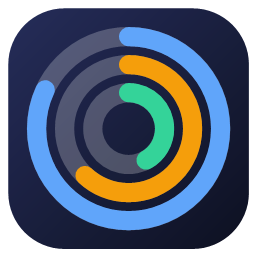
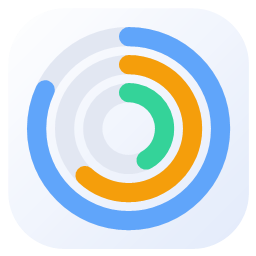
Light minimal redesign

diff --git a/src/widget.html b/src/widget.html
@@ -2,38 +2,38 @@
 <html lang="ko"><head><meta charset="utf-8">
 <style>
 *{box-sizing:border-box;margin:0}
-html,body{background:transparent;overflow:hidden;font-family:'Segoe UI','Malgun Gothic',sans-serif;color:#e8ecf8;user-select:none}
+html,body{background:transparent;overflow:hidden;font-family:'Segoe UI','Malgun Gothic',sans-serif;color:#1f2430;user-select:none}
 body{padding:6px 14px 22px}
 body[data-mode=clock]{padding:22px 14px 6px}
-.dock{background:linear-gradient(160deg,rgba(26,31,52,.97),rgba(14,17,30,.97));border:1px solid rgba(255,255,255,.1);border-radius:22px;padding:14px 16px 16px;box-shadow:0 18px 50px rgba(0,0,0,.55),inset 0 1px 0 rgba(255,255,255,.07);
+.dock{background:#fff;border:1px solid #e6e9f0;border-radius:20px;padding:14px 16px 16px;box-shadow:0 12px 36px rgba(30,40,70,.16);
  transform:translateY(-120%);opacity:0;transition:transform .26s cubic-bezier(.2,.9,.25,1),opacity .2s}
 body[data-mode=top] .dock{border-top-left-radius:0;border-top-right-radius:0;border-top:0}
 body[data-mode=clock] .dock{transform:translateY(120%)}
 body.show .dock{transform:none;opacity:1}
-header{display:flex;align-items:center;gap:8px;margin-bottom:12px}
-h1{font-size:14px;font-weight:700;letter-spacing:.2px;flex:1}
-h1 small{font-weight:500;color:#8b93b0;margin-left:8px;font-size:11px}
-button{background:rgba(255,255,255,.07);border:0;color:#cfd6ee;width:28px;height:28px;border-radius:9px;cursor:pointer;font-size:14px;transition:.15s}
-button:hover{background:rgba(255,255,255,.16)}
+header{display:flex;align-items:center;gap:6px;margin-bottom:12px}
+h1{font-size:14px;font-weight:700;flex:1}
+h1 small{font-weight:500;color:#9aa2b5;margin-left:8px;font-size:11px}
+button{background:transparent;border:0;color:#7b849a;width:28px;height:28px;border-radius:9px;cursor:pointer;font-size:15px;transition:.15s}
+button:hover{background:#f0f3f9;color:#1f2430}
 .grid{display:grid;grid-template-columns:repeat(auto-fill,minmax(222px,1fr));gap:10px}
-.card{--c:#60a5fa;background:rgba(255,255,255,.045);border:1px solid rgba(255,255,255,.07);border-radius:16px;padding:11px 12px 10px;position:relative;overflow:hidden}
-.card::before{content:'';position:absolute;left:0;top:0;bottom:0;width:3px;background:var(--c)}
-.top{display:flex;align-items:center;gap:7px;margin-bottom:8px}
-.name{font-weight:700;font-size:14px}
-.lab{font-size:11px;color:#8b93b0;white-space:nowrap;overflow:hidden;text-overflow:ellipsis;flex:1}
-.st{font-size:10px;padding:2px 7px;border-radius:99px;background:rgba(255,255,255,.08);color:#aab2cf;white-space:nowrap}
-.st.login,.st.error{background:rgba(245,158,11,.18);color:#fbbf24;cursor:pointer}
+.card{--c:#3b82f6;background:#f7f9fc;border-radius:14px;padding:11px 12px 10px}
+.top{display:flex;align-items:center;gap:7px;margin-bottom:9px}
+.top::before{content:'';width:8px;height:8px;border-radius:50%;background:var(--c);flex:none}
+.name{font-weight:700;font-size:13.5px}
+.lab{font-size:11px;color:#9aa2b5;white-space:nowrap;overflow:hidden;text-overflow:ellipsis;flex:1}
+.st{font-size:10px;padding:2px 7px;border-radius:99px;background:#e9edf5;color:#7b849a;white-space:nowrap}
+.st.login,.st.error{background:#fff2d9;color:#b7791f;cursor:pointer}
 .rings{display:flex;gap:6px;justify-content:space-around}
 .m{display:flex;align-items:center;gap:8px;flex:1}
 .ring{position:relative;width:54px;height:54px;flex:none}
 .ring svg{transform:rotate(-90deg);width:54px;height:54px}
-.ring circle{fill:none;stroke-width:6;stroke-linecap:round}
-.ring .bg{stroke:rgba(255,255,255,.09)}
-.ring .fg{stroke:var(--k);transition:stroke-dashoffset .8s cubic-bezier(.2,.8,.2,1),stroke .3s;filter:drop-shadow(0 0 4px var(--k))}
+.ring circle{fill:none;stroke-width:5.5;stroke-linecap:round}
+.ring .bg{stroke:#e3e8f1}
+.ring .fg{stroke:var(--k);transition:stroke-dashoffset .8s cubic-bezier(.2,.8,.2,1),stroke .3s}
 .ring b{position:absolute;inset:0;display:grid;place-items:center;font-size:13px;font-weight:700}
-.t{font-size:11px;color:#aab2cf;line-height:1.35}
-.t i{display:block;font-style:normal;color:#6f7899;font-size:10px;margin-top:1px;max-width:64px;word-break:keep-all}
-.empty{padding:26px;text-align:center;color:#8b93b0;font-size:13px;grid-column:1/-1}
+.t{font-size:11px;color:#6b748a;line-height:1.35}
+.t i{display:block;font-style:normal;color:#a3abbd;font-size:10px;margin-top:1px;max-width:64px;word-break:keep-all}
+.empty{padding:26px;text-align:center;color:#9aa2b5;font-size:13px;grid-column:1/-1}
 .spin{animation:s 1s linear infinite;display:inline-block}@keyframes s{to{transform:rotate(360deg)}}
 </style></head>
 <body data-mode="top"><div class="dock" id="dock">

diff --git a/src/settings.html b/src/settings.html
@@ -2,22 +2,22 @@
 <html lang="ko"><head><meta charset="utf-8"><title>AI 사용량 — 설정</title>
 <style>
 *{box-sizing:border-box;margin:0}
-body{background:radial-gradient(900px 500px at 10% -10%,#1d2548,transparent),#0f1320;color:#e8ecf8;font-family:'Segoe UI','Malgun Gothic',sans-serif;padding:26px 30px 40px;min-height:100vh}
-h1{font-size:22px;margin-bottom:4px}p.sub{color:#8b93b0;font-size:13px;margin-bottom:22px}
-h2{font-size:13px;color:#8b93b0;letter-spacing:.5px;margin:26px 0 10px;text-transform:uppercase}
-.box{background:rgba(255,255,255,.045);border:1px solid rgba(255,255,255,.08);border-radius:16px;padding:14px 16px}
-.acc{--c:#60a5fa;border-left:4px solid var(--c);margin-bottom:10px}
+body{background:#f5f7fb;color:#1f2430;font-family:'Segoe UI','Malgun Gothic',sans-serif;padding:28px 32px 40px;min-height:100vh}
+h1{font-size:21px;margin-bottom:4px}p.sub{color:#8a93a8;font-size:13px;margin-bottom:20px}
+h2{font-size:12px;color:#9aa2b5;letter-spacing:.5px;margin:26px 0 10px;font-weight:600}
+.box{background:#fff;border:1px solid #e6e9f0;border-radius:14px;padding:14px 16px}
+.acc{--c:#3b82f6;margin-bottom:10px}
 .row{display:flex;gap:8px;align-items:center;flex-wrap:wrap;margin:6px 0}
-.badge{font-weight:700;color:var(--c);min-width:92px}
-input,select{background:#1a2038;border:1px solid #2c3556;color:#e8ecf8;border-radius:9px;padding:7px 10px;font:inherit;font-size:13px;outline:0}
-input:focus,select:focus{border-color:#60a5fa}
+.badge{font-weight:700;min-width:92px}.badge::before{content:'';display:inline-block;width:8px;height:8px;border-radius:50%;background:var(--c);margin-right:7px}
+input,select{background:#f7f9fc;border:1px solid #e1e6f0;color:#1f2430;border-radius:9px;padding:7px 10px;font:inherit;font-size:13px;outline:0}
+input:focus,select:focus{border-color:#3b82f6;background:#fff}
 input.n{width:64px}input.w{flex:1;min-width:160px}
-button{background:#2b3768;color:#fff;border:0;border-radius:9px;padding:7px 13px;font:inherit;font-size:13px;cursor:pointer;transition:.15s}
-button:hover{background:#3b4a8c}button.g{background:rgba(255,255,255,.08)}button.d{background:rgba(248,113,113,.18);color:#fca5a5}
-button.p{background:#3b6df0}
-.msg{font-size:12px;color:#8b93b0}.msg.bad{color:#fbbf24}.msg.ok{color:#4ade80}
+button{background:#eef1f7;color:#3b4560;border:0;border-radius:9px;padding:7px 13px;font:inherit;font-size:13px;cursor:pointer;transition:.15s}
+button:hover{background:#e1e6f0}button.g{background:transparent;color:#7b849a}button.g:hover{background:#eef1f7}button.d{background:transparent;color:#d9534f}button.d:hover{background:#fdecec}
+button.p{background:#3b82f6;color:#fff}button.p:hover{background:#2f6fdb}
+.msg{font-size:12px;color:#9aa2b5}.msg.bad{color:#b7791f}.msg.ok{color:#16a34a}
 label.ck{display:flex;gap:8px;align-items:center;margin:8px 0;font-size:14px}
-.hint{font-size:12px;color:#6f7899;margin-top:8px;line-height:1.6}
+.hint{font-size:12px;color:#9aa2b5;margin-top:8px;line-height:1.6}
 </style></head><body>
 <h1>AI 사용량 설정</h1><p class="sub">같은 AI라도 계정을 여러 개 추가할 수 있어요. 계정마다 로그인이 따로 저장됩니다.</p>
 <h2>계정</h2><div id="list"></div>
